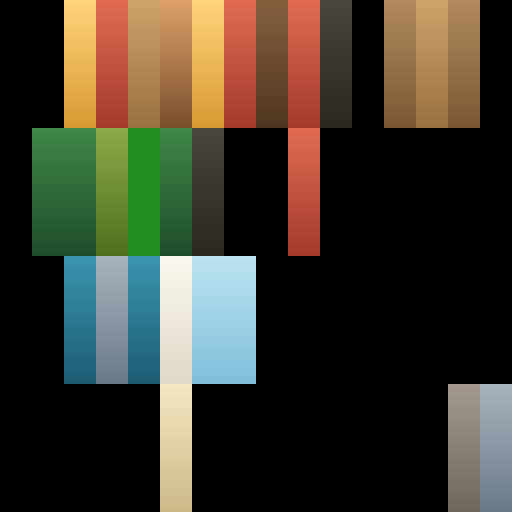
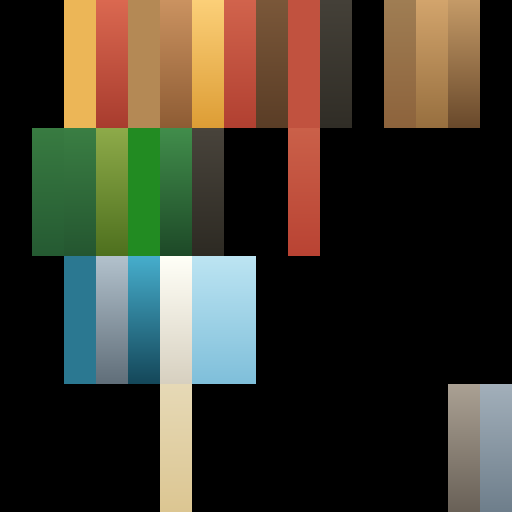
Kandidaat krijgt het verval van de huidige banen terug
De aangeleverde atlas gaf elke cel ongeveer hetzelfde verval in lichtheid, rond
20 in L*, ook waar de huidige atlas vlak is (4,0 en 9,0 en 2,2) of juist heel
steil (4,2 op 38,5 en 14,0 op 32,2). De kleur van de kandidaat blijft nu staan,
maar de lichtheid wordt om het midden van de baan uitgerekt of ingedrukt tot het
verval van diezelfde cel in kits/colormap.png. Vroeger vlakke cellen worden weer
vlak, met de middenkleur van boven tot onder, in plaats van twee kleurtonen op
gelijke lichtheid.

24 van de 26 gedeelde cellen komen binnen 0,5 uit; cel 2,0 liep vroeger de
verkeerde kant op en is nu vlak, cel 5,2 loopt tegen wit aan. De bladen en de
cel-voor-celtabel zijn opnieuw gemaakt.

diff --git a/docs/kleurmap_review.md b/docs/kleurmap_review.md
@@ -40,52 +40,70 @@ gereedschap, grondstoffen, bomen, planten, rotsen en verbindingen. Een
 kleurwissel landt zo altijd op iets herkenbaars. De twee lijsten delen geen
 enkel model, dus samen laten ze tachtig verschillende props zien.
 
-## Twee aanpassingen aan de aangeleverde atlas
+## Aanpassingen aan de aangeleverde atlas
 
 - **Cel 5,0 — de houtbaan.** Boomstammen, planken, trappen, scheepsrompen en
   tentstokken staan op die cel, en de aangeleverde atlas zette hem op dezelfde
   rode baan als het dak en het vuur. De kandidaat draagt daar nu een eigen
-  houtbaan, `#dda06a → #7a4f2c`, op 55 afstand van beide bestaande houtbanen
-  (redmean, zoals in `tools/kleurmap.mjs`), zodat treden en frame van de houten
-  trap uit elkaar blijven.
+  houtbaan, `#ca9260 → #8e5c34`, zodat treden en frame van de houten trap uit
+  elkaar blijven.
 - **Cellen 3,1 en 4,1 — de graspollen.** Het lichte groen `#96c95a → #5e9130`
   dekte beide cellen; ze staan in de kandidaat weer op het groen dat ze nu
-  hebben: 3,1 op `#8daa49 → #4e701e` met verloop, 4,1 vlak op `#228b22`. De
-  graspollen zien er dus uit als voorheen.
+  hebben: 3,1 op `#8daa49 → #4e701e` met verloop, 4,1 vlak op `#228b22`.
+- **Het verval van elke baan.** Elke cel heeft nu hetzelfde verval in lichtheid
+  als diezelfde cel in de huidige atlas — zie hieronder.
+
+## Steilheid van de banen
+
+Elke cel is een verticale baan van licht naar donker. Hoe steil die loopt, is te
+meten als het verschil in L\* — waargenomen lichtheid — tussen de bovenste en de
+onderste pixelrij.
+
+De aangeleverde atlas gaf elke baan ongeveer hetzelfde verval, rond ΔL\* 19–22,
+ook waar de huidige atlas vlak is of juist heel steil. Dat is teruggebracht: de
+kleur van de kandidaat blijft, maar de lichtheid wordt om het midden van de baan
+uitgerekt of ingedrukt tot het verval van de huidige cel. Was de baan vroeger
+vlak, dan is hij weer vlak — één kleur, niet twee kleuren op gelijke lichtheid.
+
+| ΔL\* over de baan | mediaan | gemiddeld | spreiding | laagste | hoogste | vlak (< 1) |
+| --- | ---: | ---: | ---: | ---: | ---: | ---: |
+| huidig | 15,0 | 14,6 | 10,5 | −1,9 | 38,5 | 4 van 26 |
+| kandidaat, zoals aangeleverd | 19,4 | 19,0 | 5,4 | 0,0 | 32,9 | 1 van 26 |
+| kandidaat, nu | 14,9 | 14,6 | 10,4 | 0,0 | 38,4 | 5 van 26 |
+
+Van de 26 cellen die in allebei gevuld zijn, komen er 24 nu binnen 0,5 ΔL\* van
+de huidige baan uit. De twee andere: cel 2,0 liep vroeger de verkeerde kant op
+(ΔL\* −1,9, de onderkant lichter dan de bovenkant) en is nu vlak, en cel 5,2
+loopt tegen wit aan, waardoor de bovenkant niet verder omhoog kan.
 
 ## Wat de kandidaat doet
 
-Het is geen kleurcorrectie maar een kleinere set. De huidige atlas heeft 26
-gevulde cellen met 26 verschillende kleurbanen; de kandidaat heeft er 28 gevuld,
-maar daar staan nog maar **16 verschillende banen** in. Negen banen dekken
-meerdere cellen af:
+Het is geen kleurcorrectie maar een kleinere set. Niet in het aantal banen — die
+zijn er 27 tegen 26 — maar in het aantal kleurfamilies: cellen die zo dicht bij
+elkaar liggen dat ze op het scherm hetzelfde heten. Bij een drempel van 45
+(redmean, op de middenkleur van de baan) gaan er 23 families naar 14:
 
-| baan in de kandidaat | cellen die erop uitkomen |
+| familie in de kandidaat | cellen |
 | --- | --- |
-| `#e06b52 → #a33a2c` (rood) | 3,0 · 7,0 · 9,0 · 9,1 |
-| `#3e8748 → #1f4d2a` (donkergroen) | 1,1 · 2,1 · 5,1 |
-| `#ffd37a → #d99a34` (amber) | 2,0 · 6,0 |
-| `#d0a26b → #997040` (licht hout) | 4,0 · 13,0 |
-| `#b08a5c → #7c5734` (hout) | 12,0 · 14,0 |
-| `#4a453d → #2a2721` (donker) | 10,0 · 6,1 |
-| `#3b94af → #1c5c73` (blauwgroen) | 2,2 · 4,2 |
-| `#a6b4bf → #6a7986` (blauwgrijs) | 3,2 · 15,3 |
-| `#bce4f2 → #7fbfda` (lichtblauw, nieuw) | 6,2 · 7,2 |
+| rood | 3,0 · 7,0 · 9,0 · 9,1 |
+| hout | 4,0 · 5,0 · 12,0 · 13,0 · 14,0 |
+| donkergroen | 1,1 · 2,1 · 5,1 |
+| amber | 2,0 · 6,0 |
+| donker | 10,0 · 6,1 |
+| blauwgroen | 2,2 · 4,2 |
+| blauwgrijs | 3,2 · 15,3 |
+| lichtblauw (nieuw) | 6,2 · 7,2 |
 
 De cellen 6,2 en 7,2 zijn nu leeg; de kandidaat zet daar een lichtblauwe baan
-neer waar nog geen enkel model naar wijst.
+neer waar nog geen enkel model naar wijst. Die twee hebben geen oude baan om het
+verval van over te nemen en zijn gebleven zoals ze waren.
 
 Het samenvoegen kost onderscheid binnen een model. Van de 1019 modellen met het
-gedeelde palet zijn er **152** waarin twee duidelijk verschillende kleuren
+gedeelde palet zijn er **148** waarin twee duidelijk verschillende kleuren
 (afstand > 60 volgens dezelfde redmean-formule die `tools/kleurmap.mjs` gebruikt)
 in de kandidaat praktisch samenvallen (afstand < 12). Op de bladen is dat te zien
 bij de kist — de banden en het hout lopen in elkaar over — en bij de kratten en
 tonnen uit de dungeon-kit.
-
-Wat de bladen daarnaast laten zien: de hele warme familie van de dungeon-kit —
-tonnen, kisten, flessen, bedden, stoelen — staat in de kandidaat op vrijwel
-dezelfde okertint. Waar nu terracotta naast blauwgrijs staat, staat er dan tan
-naast lichtblauw.
 
 ## Cel voor cel
 
@@ -95,31 +113,31 @@ onderkleur van beide banen.
 
 | cel | huidig (boven → onder) | kandidaat | modellen | afstand |
 | --- | --- | --- | ---: | ---: |
-| 2,0 | #fde675 → #fbf02d | #ffd37a → #d99a34 | 4 | 110 |
-| 3,0 | #f39ac2 → #e05c7a | #e06b52 → #a33a2c | 0 | 179 |
-| 4,0 | #f1976c → #f1976c | #d0a26b → #997040 | 4 | 119 |
-| 5,0 | #f0976c → #b06041 | #dda06a → #7a4f2c | 270 | 68 |
-| 6,0 | #ffd566 → #ff922d | #ffd37a → #d99a34 | 40 | 48 |
-| 7,0 | #c94d33 → #9b3440 | #e06b52 → #a33a2c | 43 | 60 |
-| 8,0 | #934431 → #6c2e1e | #85603f → #4f3520 | 105 | 56 |
-| 9,0 | #930909 → #930909 | #e06b52 → #a33a2c | 0 | 187 |
-| 10,0 | #474752 → #343437 | #4a453d → #2a2721 | 95 | 41 |
-| 12,0 | #b06041 → #825442 | #b08a5c → #7c5734 | 199 | 59 |
-| 13,0 | #f2bf99 → #c88159 | #d0a26b → #997040 | 130 | 99 |
-| 14,0 | #bca176 → #625040 | #b08a5c → #7c5734 | 281 | 55 |
-| 1,1 | #206734 → #254525 | #3e8748 → #1f4d2a | 11 | 52 |
-| 2,1 | #8bca86 → #4da18a | #3e8748 → #1f4d2a | 13 | 224 |
+| 2,0 | #fde675 → #fbf02d | #ecb657 → #ecb657 | 4 | 121 |
+| 3,0 | #f39ac2 → #e05c7a | #da6850 → #a83c2e | 0 | 179 |
+| 4,0 | #f1976c → #f1976c | #b48955 → #b48955 | 4 | 112 |
+| 5,0 | #f0976c → #b06041 | #ca9260 → #8e5c34 | 270 | 63 |
+| 6,0 | #ffd566 → #ff922d | #fbcf78 → #dd9d35 | 40 | 46 |
+| 7,0 | #c94d33 → #9b3440 | #d1634c → #b14031 | 43 | 54 |
+| 8,0 | #934431 → #6c2e1e | #7a5739 → #5a3d26 | 105 | 50 |
+| 9,0 | #930909 → #930909 | #c1523f → #c1523f | 0 | 184 |
+| 10,0 | #474752 → #343437 | #444038 → #302d26 | 95 | 39 |
+| 12,0 | #b06041 → #825442 | #9f7d53 → #8d633c | 199 | 53 |
+| 13,0 | #f2bf99 → #c88159 | #d2a46c → #976f3f | 130 | 99 |
+| 14,0 | #bca176 → #625040 | #c49a67 → #69492b | 281 | 34 |
+| 1,1 | #206734 → #254525 | #387b41 → #255a32 | 11 | 53 |
+| 2,1 | #8bca86 → #4da18a | #3a7e43 → #245630 | 13 | 223 |
 | 3,1 | #8daa49 → #4e701e | #8daa49 → #4e701e | 21 | 0 |
 | 4,1 | #228b22 → #228b22 | #228b22 → #228b22 | 60 | 0 |
-| 5,1 | #60ca8b → #198268 | #3e8748 → #1f4d2a | 57 | 165 |
-| 6,1 | #545867 → #3a3d48 | #4a453d → #2a2721 | 100 | 81 |
-| 9,1 | #ff9c44 → #ff7244 | #e06b52 → #a33a2c | 39 | 154 |
-| 2,2 | #0070df → #0070df | #3b94af → #1c5c73 | 0 | 166 |
-| 3,2 | #c5cef7 → #757a93 | #a6b4bf → #6a7986 | 190 | 69 |
-| 4,2 | #29abe2 → #1f3c85 | #3b94af → #1c5c73 | 11 | 86 |
-| 5,2 | #fffff9 → #d3cdce | #fbf8ef → #dfd8c7 | 127 | 26 |
+| 5,1 | #60ca8b → #198268 | #418d4b → #1d4927 | 57 | 163 |
+| 6,1 | #545867 → #3a3d48 | #48433b → #2d2a23 | 100 | 80 |
+| 9,1 | #ff9c44 → #ff7244 | #ca6049 → #b94333 | 39 | 152 |
+| 2,2 | #0070df → #0070df | #2b7891 → #2b7891 | 0 | 148 |
+| 3,2 | #c5cef7 → #757a93 | #b2c1cc → #606e79 | 190 | 67 |
+| 4,2 | #29abe2 → #1f3c85 | #46adcc → #144759 | 11 | 68 |
+| 5,2 | #fffff9 → #d3cdce | #fffff7 → #d7d0c0 | 127 | 13 |
 | 6,2 | leeg | #bce4f2 → #7fbfda | 0 | — |
 | 7,2 | leeg | #bce4f2 → #7fbfda | 0 | — |
-| 5,3 | #f1d0b2 → #efba88 | #f4e7c2 → #cdb988 | 41 | 55 |
-| 14,3 | #a9988b → #675a50 | #a39a8d → #6f675c | 213 | 23 |
-| 15,3 | #868ba1 → #565b73 | #a6b4bf → #6a7986 | 228 | 91 |
+| 5,3 | #f1d0b2 → #efba88 | #e6d9b6 → #dcc692 | 41 | 35 |
+| 14,3 | #a9988b → #675a50 | #aaa093 → #696157 | 213 | 19 |
+| 15,3 | #868ba1 → #565b73 | #a2afba → #6e7e8b | 228 | 91 |
